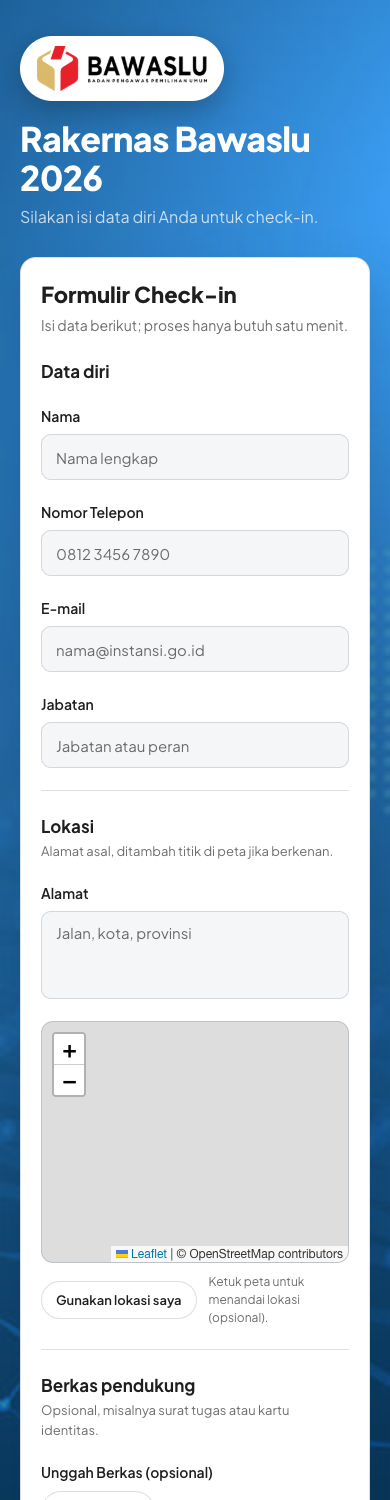
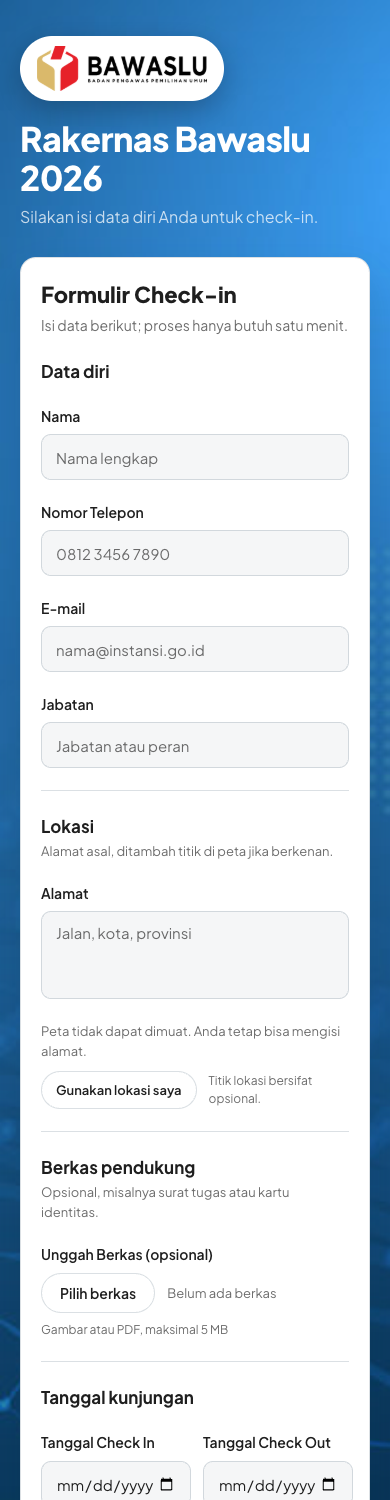
feat: revamp layout

Changed region(s): [[0.0923, 0.6747, 0.8923, 0.8893], [0.0923, 0.92, 0.8615, 1.0]]

diff --git a/src/features/checkin/MapPicker.tsx b/src/features/checkin/MapPicker.tsx
@@ -1,61 +1,73 @@
-import L from "leaflet";
-import "leaflet/dist/leaflet.css";
 import { useEffect, useRef, useState } from "react";
 import { View } from "react-native";
 import { Button, Row, T } from "../../components/ui";
+import { loadGoogleMaps } from "../../services/googleMaps";
 import { useTheme } from "../../theme";
 
 export type Pin = { latitude: number; longitude: number };
-const JAKARTA: L.LatLngTuple = [-6.2, 106.816667];
-const UNAVAILABLE = "Lokasi tidak tersedia. Anda tetap bisa mengisi alamat.";
+const JAKARTA = { lat: -6.2, lng: 106.816667 };
+const LOCATION_UNAVAILABLE = "Lokasi tidak tersedia. Anda tetap bisa mengisi alamat.";
+const MAP_UNAVAILABLE = "Peta tidak dapat dimuat. Anda tetap bisa mengisi alamat.";
 
+// Google Maps with a draggable pin; the address and the pin both stay optional
+// so the form keeps working when the map cannot load.
 export function MapPicker({ value, onChange }: { value: Pin | null; onChange: (pin: Pin | null) => void }) {
   const c = useTheme();
   const container = useRef<HTMLDivElement>(null);
-  const map = useRef<L.Map | null>(null);
-  const marker = useRef<L.Marker | null>(null);
+  const map = useRef<google.maps.Map | null>(null);
+  const marker = useRef<google.maps.Marker | null>(null);
   const latest = useRef(onChange);
+  const [status, setStatus] = useState<"loading" | "ready" | "unavailable">("loading");
+  const [error, setError] = useState("");
+  const [locating, setLocating] = useState(false);
   useEffect(() => {
     latest.current = onChange;
   });
-  const [error, setError] = useState("");
-  const [locating, setLocating] = useState(false);
 
   function place(latitude: number, longitude: number, zoom?: number) {
+    latest.current({ latitude, longitude });
     const current = map.current;
     if (!current) return;
+    const position = { lat: latitude, lng: longitude };
     if (!marker.current) {
-      marker.current = L.marker([latitude, longitude], {
-        draggable: true,
-        icon: L.divIcon({
-          className: "guestbook-pin",
-          html: `<div style="width:18px;height:18px;border-radius:50%;background:${c.accent};border:3px solid #fff;box-shadow:0 0 0 2px ${c.accent}"></div>`,
-          iconSize: [18, 18],
-          iconAnchor: [9, 9],
-        }),
-      }).addTo(current);
-      marker.current.on("dragend", () => {
-        const position = marker.current!.getLatLng();
-        latest.current({ latitude: position.lat, longitude: position.lng });
+      marker.current = new google.maps.Marker({ map: current, position, draggable: true, title: "Lokasi Anda" });
+      marker.current.addListener("dragend", () => {
+        const moved = marker.current?.getPosition();
+        if (moved) latest.current({ latitude: moved.lat(), longitude: moved.lng() });
       });
     } else {
-      marker.current.setLatLng([latitude, longitude]);
+      marker.current.setPosition(position);
     }
-    if (zoom) current.setView([latitude, longitude], zoom);
-    latest.current({ latitude, longitude });
+    if (zoom) {
+      current.setCenter(position);
+      current.setZoom(zoom);
+    }
   }
 
   useEffect(() => {
-    if (!container.current || map.current) return;
-    const created = L.map(container.current, { center: JAKARTA, zoom: 11 });
-    L.tileLayer("https://tile.openstreetmap.org/{z}/{x}/{y}.png", {
-      attribution: "© OpenStreetMap contributors",
-      maxZoom: 19,
-    }).addTo(created);
-    created.on("click", (event: L.LeafletMouseEvent) => place(event.latlng.lat, event.latlng.lng));
-    map.current = created;
+    let cancelled = false;
+    loadGoogleMaps()
+      .then((maps) => {
+        if (cancelled || !container.current) return;
+        const created = new maps.Map(container.current, {
+          center: JAKARTA,
+          zoom: 11,
+          mapTypeControl: false,
+          streetViewControl: false,
+          fullscreenControl: false,
+          clickableIcons: false,
+        });
+        created.addListener("click", (event: google.maps.MapMouseEvent) => {
+          if (event.latLng) place(event.latLng.lat(), event.latLng.lng());
+        });
+        map.current = created;
+        setStatus("ready");
+      })
+      .catch(() => {
+        if (!cancelled) setStatus("unavailable");
+      });
     return () => {
-      created.remove();
+      cancelled = true;
       map.current = null;
       marker.current = null;
     };
@@ -64,7 +76,7 @@ export function MapPicker({ value, onChange }: { value: Pin | null; onChange: (p
 
   function locate() {
     setError("");
-    if (!navigator.geolocation) return setError(UNAVAILABLE);
+    if (!navigator.geolocation) return setError(LOCATION_UNAVAILABLE);
     setLocating(true);
     navigator.geolocation.getCurrentPosition(
       (position) => {
@@ -73,7 +85,7 @@ export function MapPicker({ value, onChange }: { value: Pin | null; onChange: (p
       },
       () => {
         setLocating(false);
-        setError(UNAVAILABLE);
+        setError(LOCATION_UNAVAILABLE);
       },
       { enableHighAccuracy: true, timeout: 10000 },
     );
@@ -81,16 +93,27 @@ export function MapPicker({ value, onChange }: { value: Pin | null; onChange: (p
 
   return (
     <View style={{ gap: 10 }}>
-      <div
-        ref={container}
-        role="img"
-        aria-label="Peta lokasi"
-        style={{ height: 240, borderRadius: 12, overflow: "hidden", border: `1px solid ${c.border}` }}
-      />
+      {status !== "unavailable" && (
+        <div
+          ref={container}
+          role="img"
+          aria-label="Peta lokasi"
+          style={{ height: 240, borderRadius: 12, overflow: "hidden", border: `1px solid ${c.border}`, backgroundColor: c.inputSurface }}
+        />
+      )}
+      {status === "unavailable" && (
+        <T size={13} color={c.muted}>
+          {MAP_UNAVAILABLE}
+        </T>
+      )}
       <Row style={{ gap: 12, flexWrap: "wrap" }}>
         <Button small variant="secondary" label="Gunakan lokasi saya" loading={locating} loadingLabel="Mencari lokasi…" onPress={locate} />
         <T size={12} color={c.muted} style={{ flex: 1 }}>
-          {value ? `${value.latitude.toFixed(5)}, ${value.longitude.toFixed(5)}` : "Ketuk peta untuk menandai lokasi (opsional)."}
+          {value
+            ? `${value.latitude.toFixed(5)}, ${value.longitude.toFixed(5)}`
+            : status === "ready"
+              ? "Ketuk peta untuk menandai lokasi (opsional)."
+              : "Titik lokasi bersifat opsional."}
         </T>
       </Row>
       {!!error && (

diff --git a/src/services/googleMaps.ts b/src/services/googleMaps.ts
@@ -1,0 +1,22 @@
+import { GOOGLE_MAPS_KEY } from "./config";
+
+// Loads the Google Maps JavaScript API once, only when a map is first shown.
+let loading: Promise<typeof google.maps> | undefined;
+export function loadGoogleMaps(): Promise<typeof google.maps> {
+  if (!GOOGLE_MAPS_KEY) return Promise.reject(new Error("EXPO_PUBLIC_GOOGLE_MAPS_API_KEY belum diatur"));
+  if (typeof google !== "undefined" && google.maps?.Map) return Promise.resolve(google.maps);
+  loading ??= new Promise((resolve, reject) => {
+    const callback = "__guestbookMapsReady";
+    (window as unknown as Record<string, unknown>)[callback] = () => resolve(google.maps);
+    const script = document.createElement("script");
+    const params = new URLSearchParams({ key: GOOGLE_MAPS_KEY, callback, loading: "async", language: "id", region: "ID", v: "weekly" });
+    script.src = `https://maps.googleapis.com/maps/api/js?${params}`;
+    script.async = true;
+    script.onerror = () => {
+      loading = undefined;
+      reject(new Error("Google Maps gagal dimuat"));
+    };
+    document.head.appendChild(script);
+  });
+  return loading;
+}

diff --git a/tests/e2e/checkin-extras.spec.ts b/tests/e2e/checkin-extras.spec.ts
@@ -11,7 +11,9 @@ test("the map pin and typed address are saved with the check-in", async ({ page,
   const state = await installSupabaseStub(page);
   await page.goto("/");
   await fillForm(page);
+  await expect(page.getByText("Peta tidak dapat dimuat. Anda tetap bisa mengisi alamat.", { exact: true })).toBeVisible();
   await page.getByRole("button", { name: "Gunakan lokasi saya", exact: true }).click();
+  await expect(page.getByText("-6.17540, 106.82720", { exact: true })).toBeVisible();
   await page.getByRole("button", { name: "Kirim", exact: true }).click();
   await expect(page.getByRole("heading", { name: /Terima kasih/ })).toBeVisible();
   const call = state.rpcCalls[0].body;

diff --git a/tests/e2e/supabase-stub.ts b/tests/e2e/supabase-stub.ts
@@ -227,6 +227,7 @@ export async function installSupabaseStub(page: Page, seed: Seed = {}): Promise<
     return json(route, { Key: `${bucket}/${path}`, Id: uuid() });
   });
   await page.route(/\/storage\/v1\/object\/public\//, (route) => route.fulfill({ status: 200, contentType: "image/png", body: PNG_1x1 }));
-  await page.route(/tile\.openstreetmap\.org/, (route) => route.fulfill({ status: 200, contentType: "image/png", body: PNG_1x1 }));
+  // Google Maps never loads in tests; the form must keep working without it.
+  await page.route(/maps\.googleapis\.com/, (route) => route.abort());
   return state;
 }

diff --git a/src/services/config.ts b/src/services/config.ts
@@ -4,3 +4,4 @@ export const SUPABASE_KEY = process.env.EXPO_PUBLIC_SUPABASE_PUBLISHABLE_KEY || 
 export const CONFIG_ERROR =
   "Konfigurasi Supabase belum diisi: EXPO_PUBLIC_SUPABASE_URL dan EXPO_PUBLIC_SUPABASE_PUBLISHABLE_KEY.";
 export const supabaseConfigured = () => Boolean(SUPABASE_URL && SUPABASE_KEY);
+export const GOOGLE_MAPS_KEY = process.env.EXPO_PUBLIC_GOOGLE_MAPS_API_KEY || "";

diff --git a/README.md b/README.md
@@ -2,7 +2,7 @@
 
 A one-event guest book on the web, in Bahasa Indonesia. Attendees open the link on their own phone, fill in one form (Nama, Nomor Telepon, E-mail, Jabatan, Alamat with a map pin, an optional file, Tanggal Check In/Check Out) and tap **Kirim**. Admins sign in at `/admin` to watch check-ins arrive, search them, export the full list to Excel or CSV, run a lucky draw, and change the event name, texts, logo, background and colours. The default look is Bawaslu's, measured from the supplied key visual and https://www.bawaslu.go.id/id (see `assets/brand/README.md`).
 
-Built with Expo Router on React Native Web (web only), TanStack Query, react-hook-form + zod, Leaflet with OpenStreetMap tiles, SheetJS for Excel, and Supabase (Postgres, Auth, Storage).
+Built with Expo Router on React Native Web (web only), TanStack Query, react-hook-form + zod, the Google Maps JavaScript API for the location pin, SheetJS for Excel, and Supabase (Postgres, Auth, Storage).
 
 The interface uses Plus Jakarta Sans (loaded from Google Fonts with system fallbacks), the official Bawaslu logo on a white capsule over the navy key visual, a navy sidebar for the admin area, and inline SVG icons generated from lucide (`scripts/generate-icons.cjs`), so no icon library ships to the browser.
 
@@ -14,11 +14,11 @@ Use Node 24 LTS (24.3+) or 22.13+.
 
 ```sh
 npm ci
-cp .env.example .env.local   # fill in both values from Supabase → Project Settings → API
+cp .env.example .env.local   # Supabase URL and publishable key from Project Settings → API, plus a Google Maps key
 npm run web
 ```
 
-`.env.local` holds only the project URL and the publishable key; both are public client values and are embedded at build time. Never put the database password, CLI token, secret key or service-role key in an `EXPO_PUBLIC_` variable. Keep private CLI credentials in `supabase/.env.cli.local`, not in a root `.env.*` file: Expo's development server bundles every root file that starts with `.env` and only understands the standard names, so a file such as `.env.supabase.local` breaks `npm run web` with a 500 on the entry bundle.
+`.env.local` holds the Supabase project URL and publishable key plus `EXPO_PUBLIC_GOOGLE_MAPS_API_KEY`; all three are public client values embedded at build time. Create the Maps key in Google Cloud with the Maps JavaScript API enabled and restrict it to your site's domain (HTTP referrers). Without a key the form still works; the map area shows a short note and attendees can still share their position with *Gunakan lokasi saya*. Never put the database password, CLI token, secret key or service-role key in an `EXPO_PUBLIC_` variable. Keep private CLI credentials in `supabase/.env.cli.local`, not in a root `.env.*` file: Expo's development server bundles every root file that starts with `.env` and only understands the standard names, so a file such as `.env.supabase.local` breaks `npm run web` with a 500 on the entry bundle.
 
 ```sh
 npm run typecheck
@@ -61,7 +61,7 @@ Repeat 2–3 for each admin. The two buckets (`guestbook-brand`, public; `guestb
 npm run build:web
 ```
 
-Publish `dist/` to any HTTPS static host (HTTPS is required for the map's geolocation). Set `EXPO_PUBLIC_SUPABASE_URL` and `EXPO_PUBLIC_SUPABASE_PUBLISHABLE_KEY` wherever the build runs. The site is a single-page app, so `/admin` and its sub-pages need a fallback to `index.html`:
+Publish `dist/` to any HTTPS static host (HTTPS is required for the map's geolocation). Set `EXPO_PUBLIC_SUPABASE_URL`, `EXPO_PUBLIC_SUPABASE_PUBLISHABLE_KEY` and `EXPO_PUBLIC_GOOGLE_MAPS_API_KEY` wherever the build runs. The site is a single-page app, so `/admin` and its sub-pages need a fallback to `index.html`:
 
 - Netlify or Cloudflare Pages: a `_redirects` file in `dist/` containing `/*    /index.html   200`
 - Vercel: `vercel.json` with `{ "rewrites": [{ "source": "/(.*)", "destination": "/index.html" }] }`
@@ -112,6 +112,6 @@ Not yet verified: a real check-in on a phone against the hosted project, and the
 
 - One event at a time; re-theming replaces the previous look, history is not kept.
 - Spam protection is a hidden honeypot only; add a captcha if abuse appears.
-- OpenStreetMap's public tile servers are meant for light use; for a very large audience switch the tile URL in `src/features/checkin/MapPicker.tsx` to a provider with an API key.
+- The map depends on Google Maps availability and the key's quota; the form never blocks on it.
 - Attendee uploads that fail before the check-in RPC are left in the bucket; clear them with the post-event cleanup.
 - `npm audit` reports advisories in `node-forge`, used only by Expo's build tooling.
